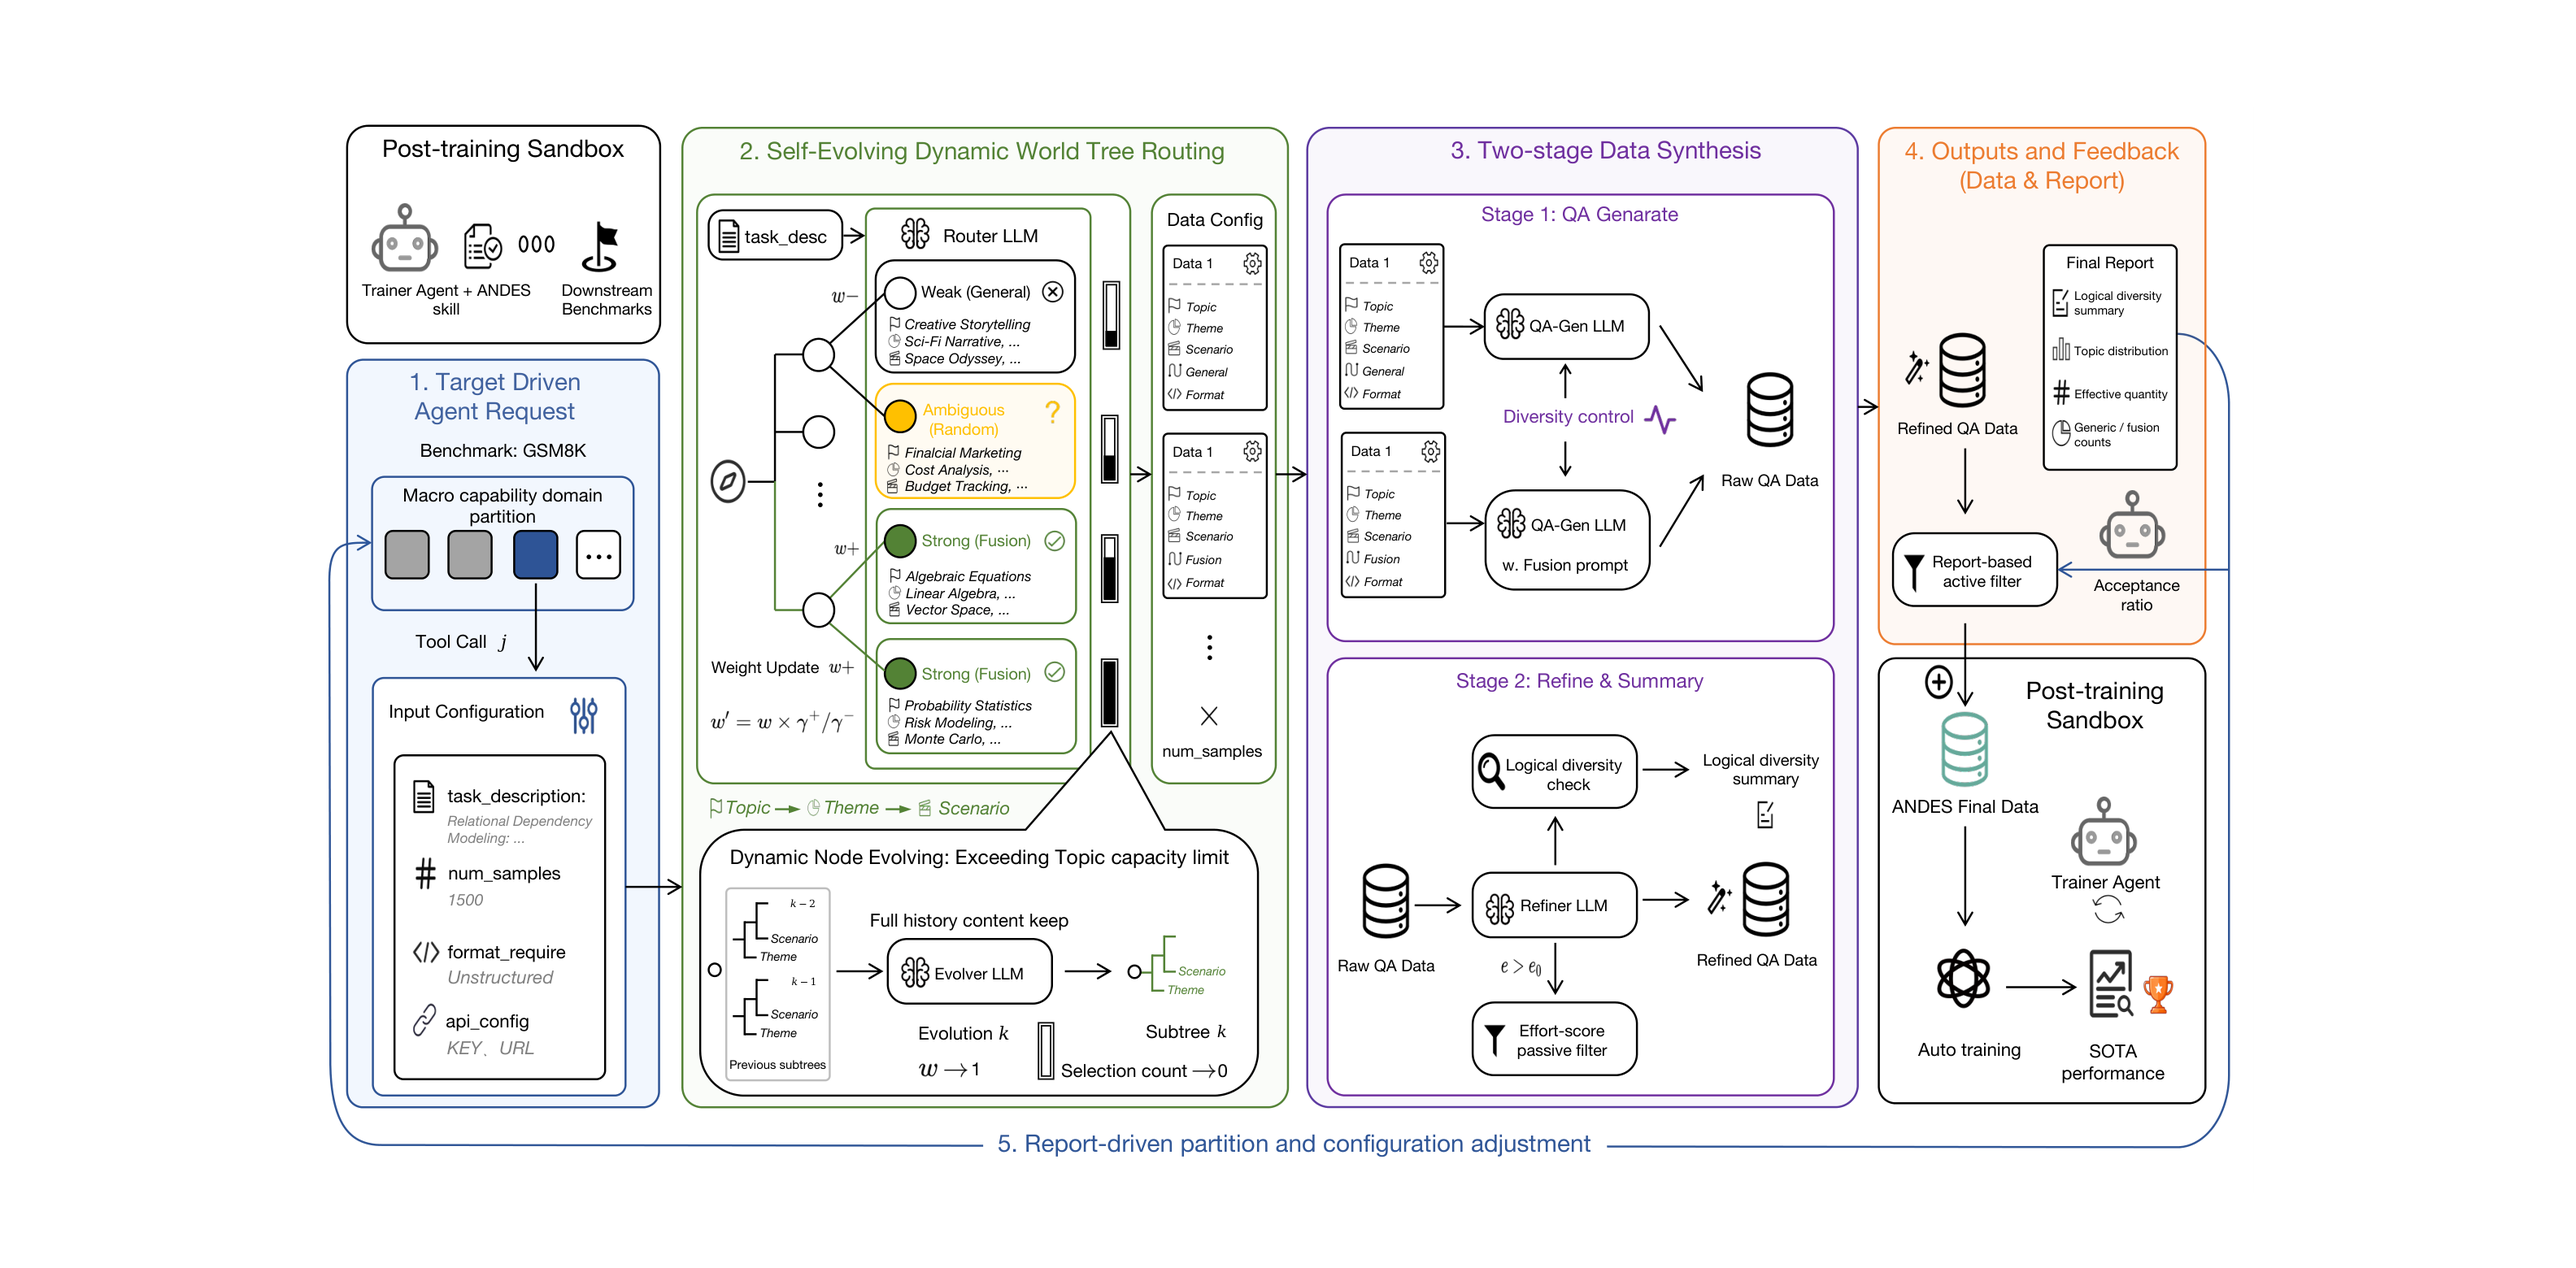
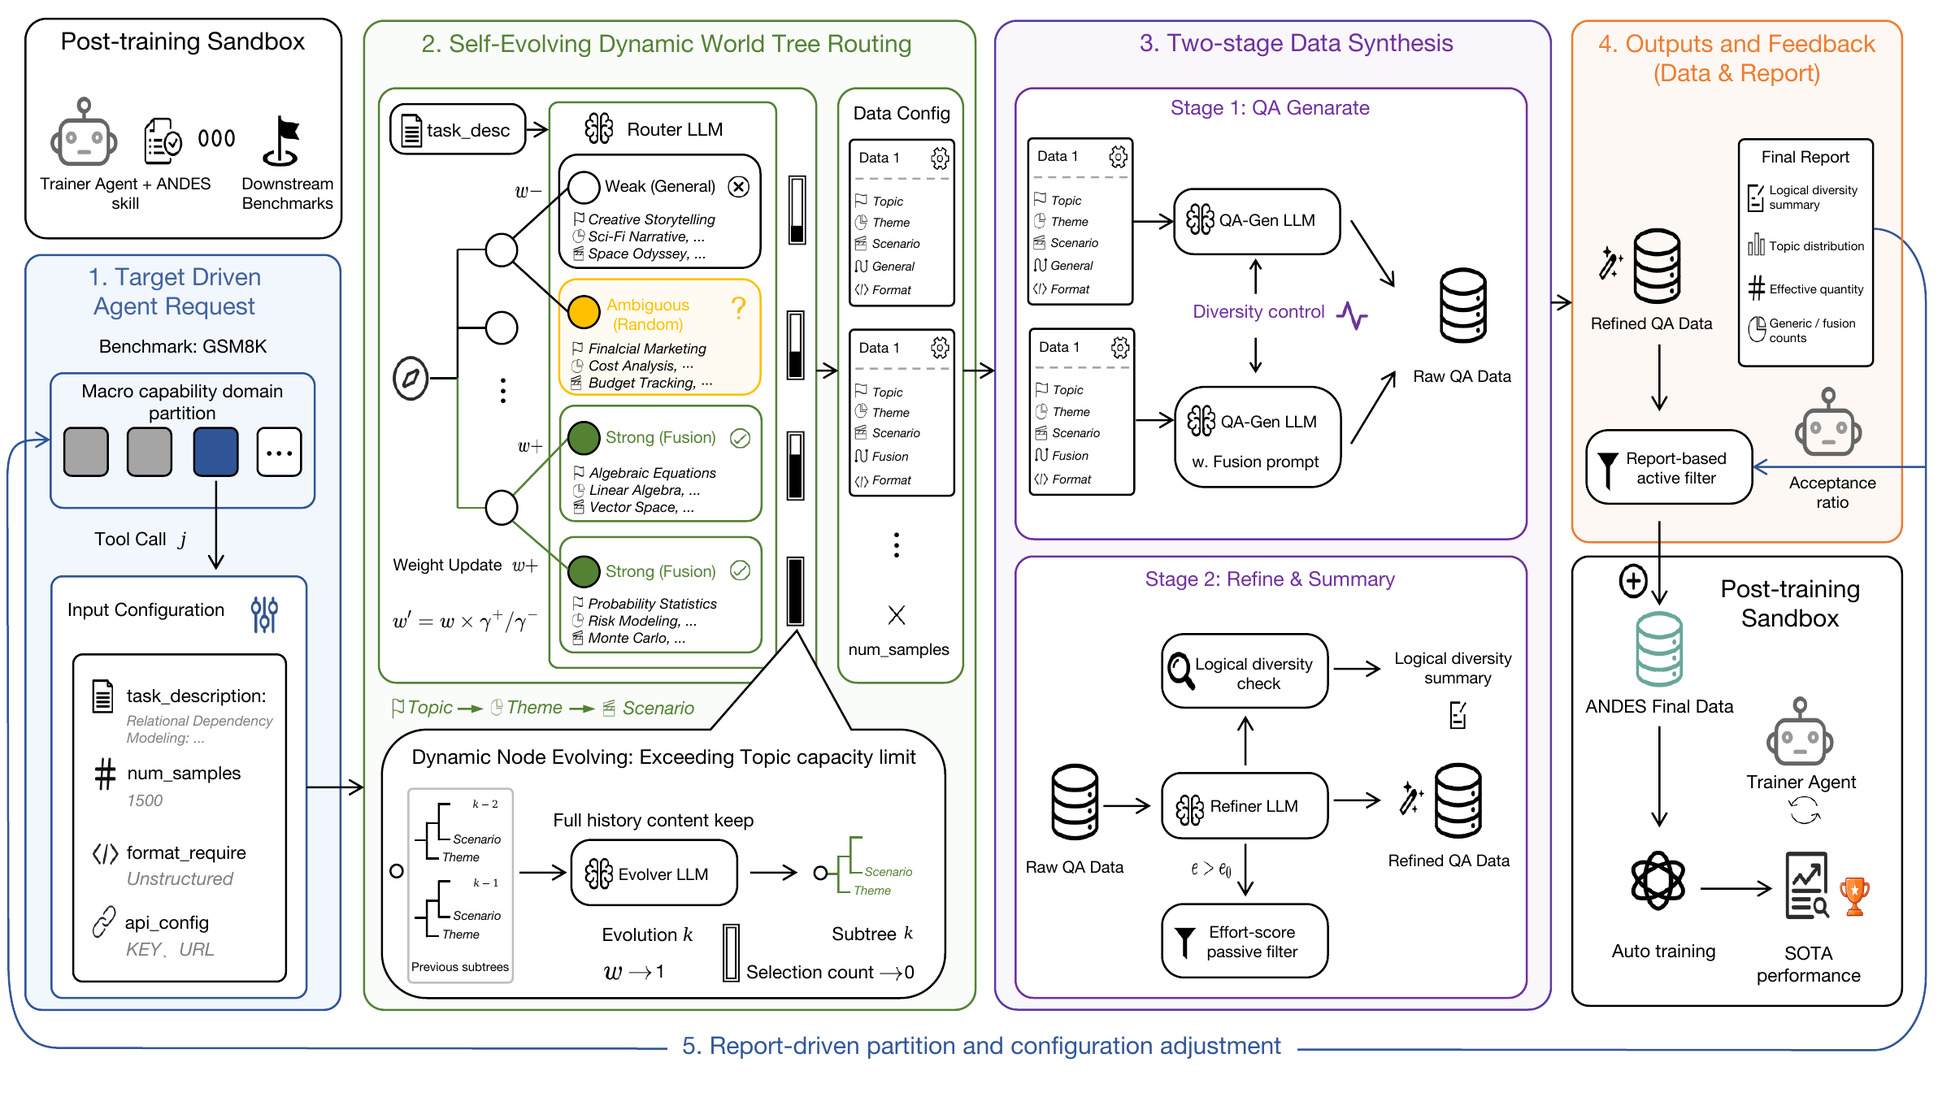
docs: update paper results and figures

diff --git a/andes/__init__.py b/andes/__init__.py
@@ -1,7 +1,7 @@
 """ANDES — Agent-Native Data Evolving Synthesis.
 
-A lightweight, API-only data synthesis pipeline that combines a dynamic
-taxonomy router, a question/answer generator, and a self-critique refiner.
+A feedback-controlled experience-acquisition framework for autonomous LLM
+post-training, built around a self-evolving World Tree and synthesis reports.
 """
 
 from .logger import get_logger

diff --git a/README.md b/README.md
@@ -1,8 +1,9 @@
 <div align="center">
 
 <h1 align="center">
-  <img src="assets/andes_icon.png" alt="ANDES icon" width="72" height="72" align="absmiddle">&nbsp;&nbsp;&thinsp;ANDES:&nbsp;Agent&nbsp;Native&nbsp;Data&nbsp;Evolving<br>
-  <small>Synthesis&nbsp;Tool&nbsp;for&nbsp;Autonomous&nbsp;Instruction&nbsp;Alignment</small>
+  <img src="assets/andes_icon.png" alt="ANDES icon" width="72" height="72" align="absmiddle">&nbsp;&nbsp;
+  ANDES: Agent-Native Data Evolving Synthesis<br>
+  <small>via Feedback-Controlled Experience Acquisition</small>
 </h1>
 
 <p>
@@ -39,7 +40,7 @@
 </p>
 
 <p>
-  <b>An agent-native synthesis skill that turns high-quality SFT data generation into a steerable, closed-loop interface for autonomous post-training.</b>
+  <b>Feedback-controlled experience acquisition for autonomous LLM post-training.</b>
 </p>
 
 </div>
@@ -48,30 +49,30 @@
 
 | Date | Update |
 | --- | --- |
-| 2026.05.31 | The ANDES preprint and initial open-source repository are released. |
-| Coming soon | Core-code documentation, supported model recipes, and citation metadata will be updated. |
+| 2026.09.28 | Updated the paper framing, PostTrainBench results, four-run statistics, ablations, held-out transfer evaluation, and repository figures. |
+| 2026.05.31 | Released the initial ANDES preprint and open-source repository. |
 
 ## ✨ Highlights
 
 <table>
   <tr>
     <td width="50%" valign="top">
-      <b>🧠 Agent-native synthesis skill</b><br>
-      Exposes data synthesis as a simple tool-calling interface, so trainer agents can request targeted data without hand-building web-search or static offline pipelines.
+      <b>🔁 Feedback-controlled experience acquisition</b><br>
+      Treats data synthesis as a sequential acquisition problem: observations from each synthesis round guide where subsequent supervision is acquired.
     </td>
     <td width="50%" valign="top">
-      <b>🌳 Self-evolving World Tree routing</b><br>
-      Routes Topic -> Theme -> Scenario samples toward target-aligned regions while expanding saturated subtrees to preserve scenario diversity.
+      <b>🌳 Self-evolving World Tree</b><br>
+      Models the synthesis space as a Topic → Theme → Scenario hierarchy, reallocates sampling toward relevant regions, and expands repeatedly selected subtrees.
     </td>
   </tr>
   <tr>
     <td width="50%" valign="top">
-      <b>🛠 Two-stage generation and refinement</b><br>
-      Generates QA data, critiques and filters responses, rewrites retained samples, and summarizes logical-diversity risks for the agent.
+      <b>🛠 Quality-aware two-stage synthesis</b><br>
+      Generates QA pairs, critiques and refines responses, filters high-effort failures, and diagnoses repeated reasoning templates.
     </td>
     <td width="50%" valign="top">
-      <b>🔁 Report-driven closed-loop feedback</b><br>
-      Returns refined data plus a diagnostic report that drives the next synthesis request, active filtering, and sample-budget adjustment.
+      <b>📊 Report-driven adaptation</b><br>
+      Summarizes effective quantity, topical allocation, and logical diversity so the trainer can revise subsequent acquisition requests.
     </td>
   </tr>
 </table>
@@ -79,14 +80,14 @@
 <table align="center">
   <tr>
     <th>PostTrainBench Avg.</th>
-    <th>Strongest Agent Baseline</th>
-    <th>Cross-Task Overall</th>
+    <th>Gain over Scaffold-only</th>
+    <th>Repeated Runs</th>
     <th>Initial World Tree</th>
   </tr>
   <tr>
-    <td align="center"><b>33.39%</b></td>
-    <td align="center">Opus-4.7 at <b>28.56%</b></td>
-    <td align="center"><b>58.9%</b> with 10k ANDES data</td>
+    <td align="center"><b>34.40%</b></td>
+    <td align="center"><b>+12.84</b> points</td>
+    <td align="center"><b>4</b> base models × <b>4</b> runs</td>
     <td align="center"><b>72</b> topics, <b>394</b> themes, <b>1,182</b> scenarios</td>
   </tr>
 </table>
@@ -97,20 +98,20 @@
   <img src="assets/andes_overview.png" alt="ANDES framework overview" width="100%">
 </div>
 
-> **TLDR:** ANDES reframes data synthesis for autonomous post-training as an interactive agent skill. A trainer agent decomposes downstream benchmarks into capability domains, invokes ANDES once per domain, and uses the returned reports to steer the next synthesis round.
+> **TL;DR:** ANDES instantiates feedback-controlled experience acquisition for autonomous LLM post-training. A trainer maps a downstream objective to capability targets, ANDES adapts an acquisition distribution over a self-evolving World Tree, and synthesis diagnostics guide subsequent acquisition decisions.
 
 ANDES is organized around four stages:
 
-| Stage | What happens |
+| Stage | Role in the acquisition loop |
 | --- | --- |
-| **1. Target-driven agent request** | The trainer agent abstracts downstream benchmarks into transferable capability dimensions and submits a task description, sample budget, and optional format protocol. |
-| **2. Self-evolving World Tree routing** | ANDES samples topics from a large taxonomy, asks a router LLM to classify each scenario as Strong, Ambiguous, or Weak, and updates topic weights toward target-aligned regions. |
-| **3. Two-stage data synthesis** | The generator creates task-aligned or general QA data; the refiner critiques, filters, rewrites, and audits logical diversity. |
-| **4. Outputs and feedback** | ANDES returns refined SFT data and a report that helps the trainer agent filter data and configure the next call. |
+| **1. Target-driven agent request** | Abstracts a downstream objective into transferable capability targets and specifies the sample budget and output protocol. |
+| **2. Self-evolving World Tree routing** | Reallocates probability mass toward target-relevant contexts while retaining exploration and expanding saturated subtrees. |
+| **3. Two-stage data synthesis** | Realizes selected contexts as QA supervision, critiques and refines responses, and measures batch-level logical redundancy. |
+| **4. Outputs and feedback** | Returns refined data and a synthesis report that conditions data retention and subsequent acquisition requests. |
 
-## 🧩 Core Codes and Supported Models
+## 🧩 Core Code
 
-The current implementation focuses on API-based SFT data synthesis for agentic post-training.
+The public implementation uses an OpenAI-compatible API backend and exposes the full synthesis path:
 
 | Component | Entry point |
 | --- | --- |
@@ -119,9 +120,10 @@ The current implementation focuses on API-based SFT data synthesis for agentic p
 | Refinement and report operator | [`andes/operators/text_sft/refine/andes_refiner.py`](andes/operators/text_sft/refine/andes_refiner.py) |
 | Prompt templates and World Tree tags | [`andes/prompts/andes_prompts.py`](andes/prompts/andes_prompts.py) |
 | OpenAI-compatible API wrapper | [`andes/serving/api_llm_serving_request.py`](andes/serving/api_llm_serving_request.py) |
-| Runnable config example | [`examples/config.example.json`](examples/config.example.json) |
+| Agent-facing synthesis skill | [`skills/SKILL.md`](skills/SKILL.md) |
+| Runnable configuration | [`examples/config.example.json`](examples/config.example.json) |
 
-**Supported models:** Coming soon. The public package is model-agnostic at the data-synthesis layer and uses an OpenAI-compatible API backend for routing, generation, refinement, evolution, and diversity summarization.
+The data-synthesis layer is model-agnostic. The paper uses GPT-4o for the default internal modules and additionally evaluates replacing all internal LLM modules with Gemini-3.1-Flash.
 
 ## 🛠 Preparation
 
@@ -136,7 +138,7 @@ pip install --upgrade pip
 pip install -e .
 ```
 
-Configure the API key in your shell rather than in a JSON file:
+Configure the API key in the environment:
 
 ```bash
 export OPENAI_API_KEY=your_api_key
@@ -144,7 +146,7 @@ export OPENAI_API_KEY=your_api_key
 
 ## 🚀 Quick Start
 
-Edit [`examples/config.example.json`](examples/config.example.json) or create a compatible JSON config:
+Edit [`examples/config.example.json`](examples/config.example.json) or create a compatible JSON configuration:
 
 ```json
 {
@@ -163,70 +165,116 @@ Run one synthesis call:
 python -m andes.pipelines.agent_tool examples/config.example.json
 ```
 
-The command prints two artifact paths:
+The command writes:
 
 | Artifact | Meaning |
 | --- | --- |
-| `andes_synthesis_<timestamp>.jsonl` | Refined SFT data ready for downstream training. |
-| `andes_report_<timestamp>.txt` | Logical-diversity and synthesis diagnostics for the next agent call. |
+| `andes_synthesis_<timestamp>.jsonl` | Refined SFT data for downstream training. |
+| `andes_report_<timestamp>.txt` | Quantity, allocation, and logical-diversity diagnostics for the next acquisition decision. |
 
 Artifacts are written to `andes/pipelines/cache/`.
 
 | `format_requirement` | Behavior |
 | --- | --- |
 | `unstructured` | No extra answer-format constraint. |
-| `code` | Fusion-track answers must be wrapped in a Markdown code block. |
-| `tool_call` | Fusion-track answers must be wrapped as JSON tool calls. |
+| `code` | Fusion-track answers are returned in Markdown code blocks. |
+| `tool_call` | Fusion-track answers are returned as JSON tool calls. |
+
+See [`examples/README.md`](examples/README.md) for the full configuration schema and routing-only dry run.
 
 ## 📊 Results
 
+### PostTrainBench leaderboard
+
 <div align="center">
-  <img src="assets/posttrainbench_results.png" alt="PostTrainBench results" width="98%">
+  <img src="assets/posttrainbench_results.png" alt="PostTrainBench leaderboard" width="100%">
 </div>
 
-### 🏆 Autonomous Post-Training on PostTrainBench
+Across four base models and seven tasks, ANDES reaches **34.40%** average performance. Under the same trainer scaffold, adding ANDES raises the average from **21.56%** to **34.40%** (**+12.84 points**). The comparison below follows the current paper snapshot.
 
-ANDES is evaluated across four base models and seven PostTrainBench benchmarks: AIME 2025, ArenaHardWriting, BFCL, GPQA-Main, GSM8K, HealthBench, and HumanEval.
-
-Beyond the final score, the paper shows that ANDES improves autonomous post-training because it upgrades the data loop itself:
-
-| Advantage | What ANDES changes |
-| --- | --- |
-| **Data quality** | The generator first creates task-grounded QA pairs, then a refiner critiques each response, filters high-effort low-quality samples, rewrites retained answers, and reports logical-diversity collapse signals. This makes the synthesized data more trainable than one-shot static generation. |
-| **Data generality** | The World Tree covers broad scenario space and evolves saturated subtrees, preserving general contextual diversity while routing more budget toward target-aligned capability regions. This helps explain the cross-task result of **58.9%** overall with only 10k ANDES samples. |
-| **Complete post-training pipeline** | ANDES is not an isolated data script: it returns data plus reports that trainer agents use to filter, rebalance, and configure the next call, closing the loop between diagnosis, synthesis, training, and evaluation. |
-
-| Method | Average Accuracy |
+| Method | Average |
 | --- | ---: |
-| Official instruct models | 51.14% |
-| Base models, zero-shot average | 7.53% |
-| GLM-4.7 with OpenCode baseline | 7.48% |
-| Opus-4.7 (xHigh) | 28.56% |
-| **GLM-4.7 with ANDES** | **33.39%** |
+| Official instruct models | 51.14 |
+| Base models, zero-shot | 7.53 |
+| GLM-4.7 with OpenCode | 7.48 |
+| GLM-4.7 with trainer scaffold | 21.56 |
+| Opus-4.8 High | 33.80 |
+| Opus-4.8 Max | 34.08 |
+| GLM-5.2 Max | 34.29 |
+| **GLM-4.7 + ANDES** | **34.40** |
 
-### 🌐 Cross-Task Generalization
+Machine-readable aggregate results are available in [`results/posttrainbench_aggregate.csv`](results/posttrainbench_aggregate.csv).
 
-In the extended multi-target synthesis setting, ANDES uses 10k synthesized samples for Qwen3-8B and reaches **58.9%** overall across AIME24, Gaokao, MBPP, MMLU, and CEVAL, outperforming the 10k and 1M static-data baselines reported in the paper.
+### Results across four base models
 
-| Method | Data Volume | AIME24 | Gaokao | MBPP | MMLU | CEval | Overall |
-| --- | ---: | ---: | ---: | ---: | ---: | ---: | ---: |
-| Base Model (Qwen3-8B-Base) | - | 13.3 | 35.2 | 82.5 | 73.0 | 82.5 | 57.3 |
-| + Infinstruct | 10k | 0.0 (↓13.3) | 34.1 (↓1.1) | 76.2 (↓6.3) | 74.2 (↑1.2) | 81.3 (↓1.2) | 53.2 (↓4.1) |
-| + Infinstruct | 1M | 0.0 (↓13.3) | 28.6 (↓6.6) | 70.1 (↓12.4) | 71.3 (↓1.7) | 77.9 (↓4.6) | 49.6 (↓7.7) |
-| + Dataflow | 10k | 10.0 (↓3.3) | 31.9 (↓3.3) | 77.2 (↓5.3) | 74.6 (↑1.6) | 82.1 (↓0.4) | 55.2 (↓2.1) |
-| **+ ANDES (Ours)** | **10k** | **10.0 (↓3.3)** | **49.5 (↑14.3)** | **77.7 (↓4.8)** | **74.8 (↑1.8)** | **82.4 (↓0.1)** | **58.9 (↑1.6)** |
+<div align="center">
+  <img src="assets/four_base_models.png" alt="ANDES results across four base models" width="58%">
+</div>
+
+The values below are means and standard deviations over four independent end-to-end runs for each base model.
+
+| Base model | AIME 2025 | ArenaHard | BFCL | GPQA Main | GSM8K | HealthBench | HumanEval | Weighted Avg. |
+| --- | ---: | ---: | ---: | ---: | ---: | ---: | ---: | ---: |
+| Qwen3-1.7B | 0.00±0.00 | 14.22±1.30 | 90.16±1.60 | 28.48±0.80 | 63.19±1.20 | 27.08±1.40 | 57.51±2.00 | **31.41±0.70** |
+| Qwen3-4B | 9.00±1.70 | 51.94±0.85 | 91.22±0.60 | 31.40±2.20 | 83.63±1.10 | 31.07±1.45 | 66.62±1.55 | **41.21±0.66** |
+| SmolLM3-3B | 6.60±1.20 | 15.21±1.35 | 79.91±1.55 | 27.00±1.10 | 68.67±1.45 | 38.50±1.70 | 42.42±1.85 | **32.91±0.78** |
+| Gemma3-4B | 0.00±0.00 | 26.55±1.40 | 86.09±1.25 | 26.83±0.95 | 77.92±1.50 | 34.46±1.60 | 33.59±1.35 | **32.05±0.72** |
+
+The complete statistics are also provided in [`results/repeated_runs.csv`](results/repeated_runs.csv).
+
+### Matched-scaffold and component ablations
+
+<div align="center">
+  <img src="assets/scaffold_ablation.png" alt="Matched-scaffold comparison" width="55%">
+</div>
+
+| Variant | Weighted Avg. |
+| --- | ---: |
+| GLM-4.7 (OpenCode) | 7.11 |
+| ANDES without World Tree | 25.97 |
+| ANDES without report-driven interaction | 26.58 |
+| ANDES with Gemini-3.1-Flash backend | 30.84 |
+| **Full ANDES with GPT-4o backend** | **31.41** |
+
+The Gemini condition replaces the router, generator, refiner, evolver, and diversity summarizer. The small difference from the default backend supports robustness to the internal model choice. Detailed ablation values are in [`results/ablation_qwen3_1.7b.csv`](results/ablation_qwen3_1.7b.csv).
+
+### Additional reliability evidence
+
+- **Contamination audit:** no exact matches were found between the synthesized training sets and their corresponding evaluation questions.
+- **Held-out transfer:** a Qwen3-1.7B checkpoint trained on data synthesized with GSM8K as the target reaches **89.00** on SVAMP and **88.52** on ASDiv-A.
+- **Multi-target synthesis:** 10k ANDES samples reach **58.9** overall on AIME24, Gaokao, MBPP, MMLU, and CEval, compared with 55.2 for DataFlow-10K and 49.6 for Infinstruct-1M.
+
+## 📁 Repository Layout
+
+```text
+andes/
+  operators/      # generation and refinement operators
+  pipelines/      # end-to-end agent tool and routing simulation
+  prompts/        # prompts and World Tree taxonomy
+  serving/        # OpenAI-compatible API backend
+  utils/          # registry and storage abstractions
+assets/           # framework and result figures
+examples/         # runnable configuration and usage notes
+results/          # machine-readable paper results
+skills/           # agent-facing ANDES synthesis skill
+```
 
 ## 📚 Citation
 
-Coming soon. Citation metadata will be added after the public paper record is finalized.
+```bibtex
+@misc{zhao2026andes,
+  title        = {ANDES: Agent-Native Data Evolving Synthesis via Feedback-Controlled Experience Acquisition},
+  author       = {Zhengyang Zhao and Shengjie Ye and Lu Ma and Hao Liang and Hengyi Feng and Wentao Zhang},
+  year         = {2026},
+  howpublished = {\url{https://github.com/zzy1127/ANDES}}
+}
+```
 
 ## 🙏 Acknowledgment
 
-We build the codebase on the DataFlow framework and evaluate the autonomous post-training setting with PostTrainBench. We thank the open-source post-training, data-synthesis, and agent-tooling communities for the foundations that made this work possible.
+We build the codebase on the DataFlow framework and evaluate autonomous post-training with PostTrainBench. We thank the open-source post-training, data-synthesis, and agent-tooling communities.
 
 ## 📮 Contact
-
-For questions about the paper or code, please contact:
 
 - `zhengyangzhao25@stu.pku.edu.cn`
 - `yeshengjie@stu.scu.edu.cn`

diff --git a/skills/SKILL.md b/skills/SKILL.md
@@ -93,12 +93,12 @@ The agent controls planning, benchmark interpretation, quality judgment, and fin
 ### 4.1 Installation
 
 ```bash
-git clone https://github.com/your-org/andes.git
-cd andes
+git clone https://github.com/zzy1127/ANDES.git
+cd ANDES
 pip install -e .
 ```
 
-- Repository: `your-org/andes`
+- Repository: `zzy1127/ANDES`
 - Working directory: `${ANDES_WORKSPACE}` (default: an isolated sandbox path used by the tool runtime)
 - Environment: sandboxed runtime (e.g. container or jail)
 
